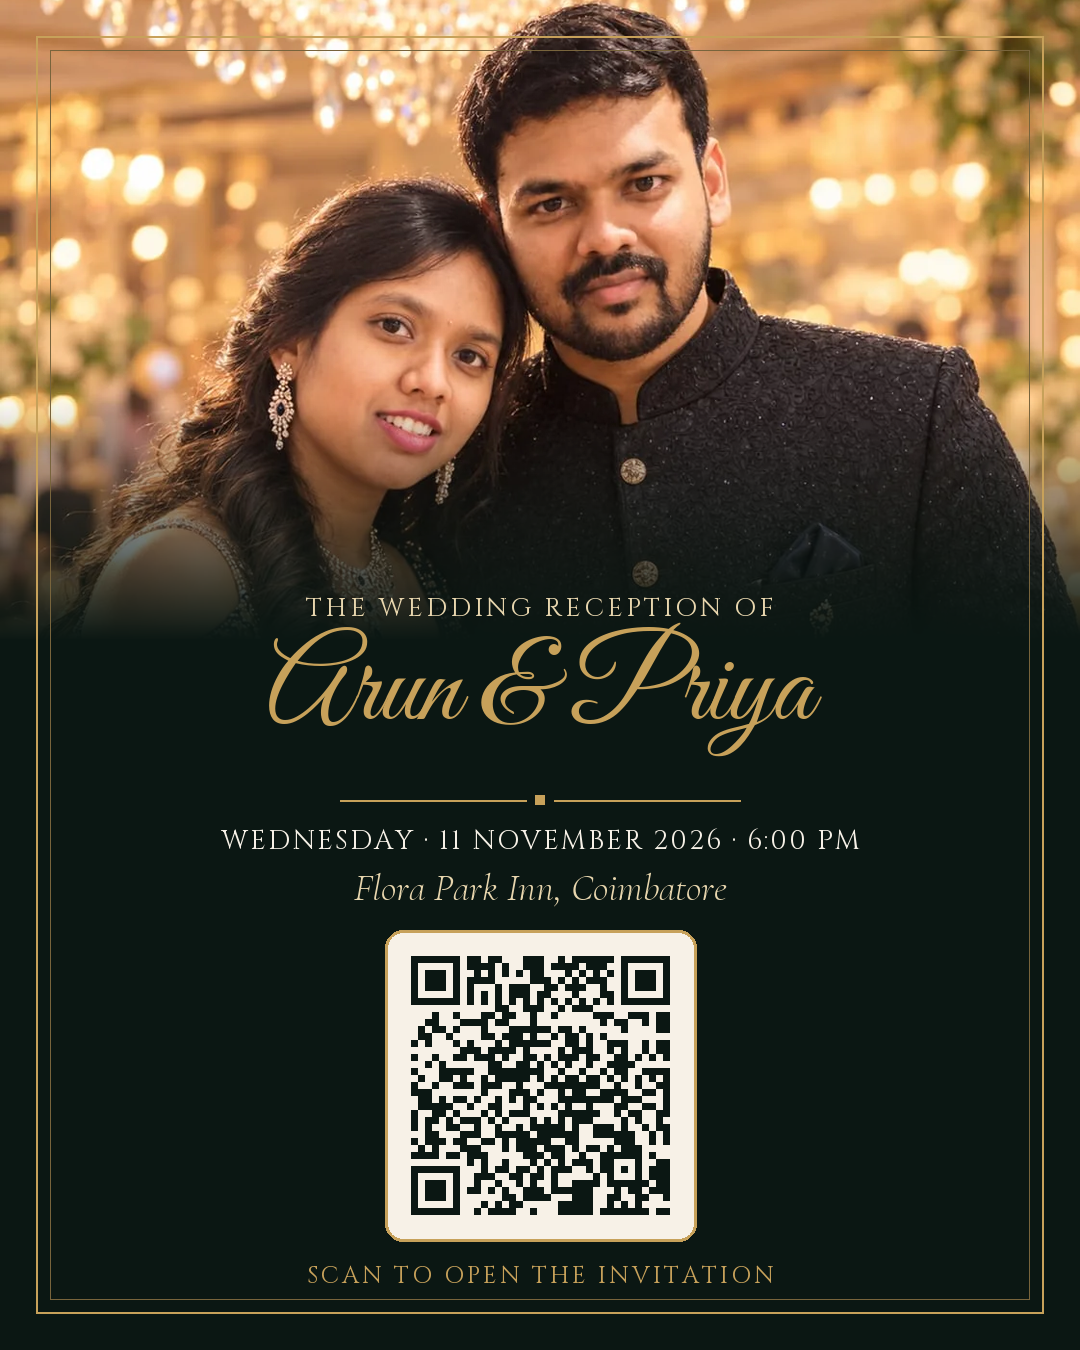
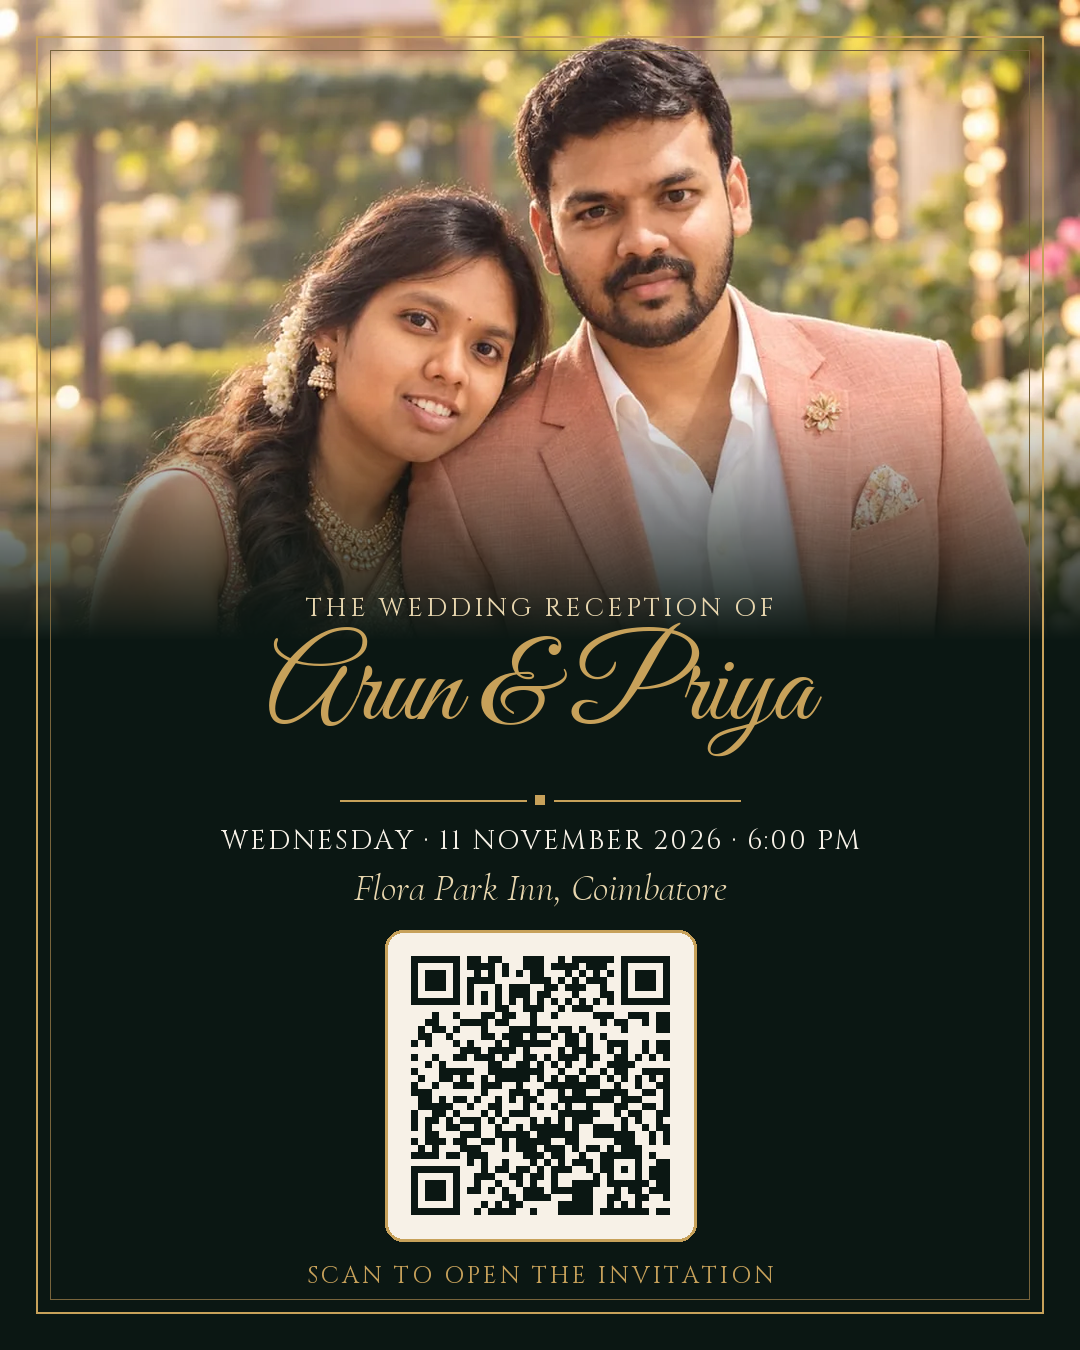
Use Blush & Bloom photo on the share cards

diff --git a/tools/make_share_assets.py b/tools/make_share_assets.py
@@ -66,7 +66,7 @@ def preview_card():
     w, h = 1200, 630
     pw = 400
     card = Image.new("RGB", (w, h), FOREST)
-    photo = Image.open(os.path.join(IMAGES, "evening.webp")).convert("RGB")
+    photo = Image.open(os.path.join(IMAGES, "blush.webp")).convert("RGB")
     card.paste(cover(photo, (pw, h)), (w - pw, 0))
 
     # soft fade from the text panel into the photo
@@ -117,8 +117,8 @@ def qr_card():
     w, h = 1080, 1350
     ph = 640
     card = Image.new("RGB", (w, h), FOREST)
-    photo = Image.open(os.path.join(IMAGES, "evening.webp")).convert("RGB")
-    card.paste(ImageOps.fit(photo, (w, ph), Image.LANCZOS, centering=(0.5, 0.12)), (0, 0))
+    photo = Image.open(os.path.join(IMAGES, "blush.webp")).convert("RGB")
+    card.paste(ImageOps.fit(photo, (w, ph), Image.LANCZOS, centering=(0.5, 0.0)), (0, 0))
 
     # photo fades into the text panel below it
     fade_h = 240
